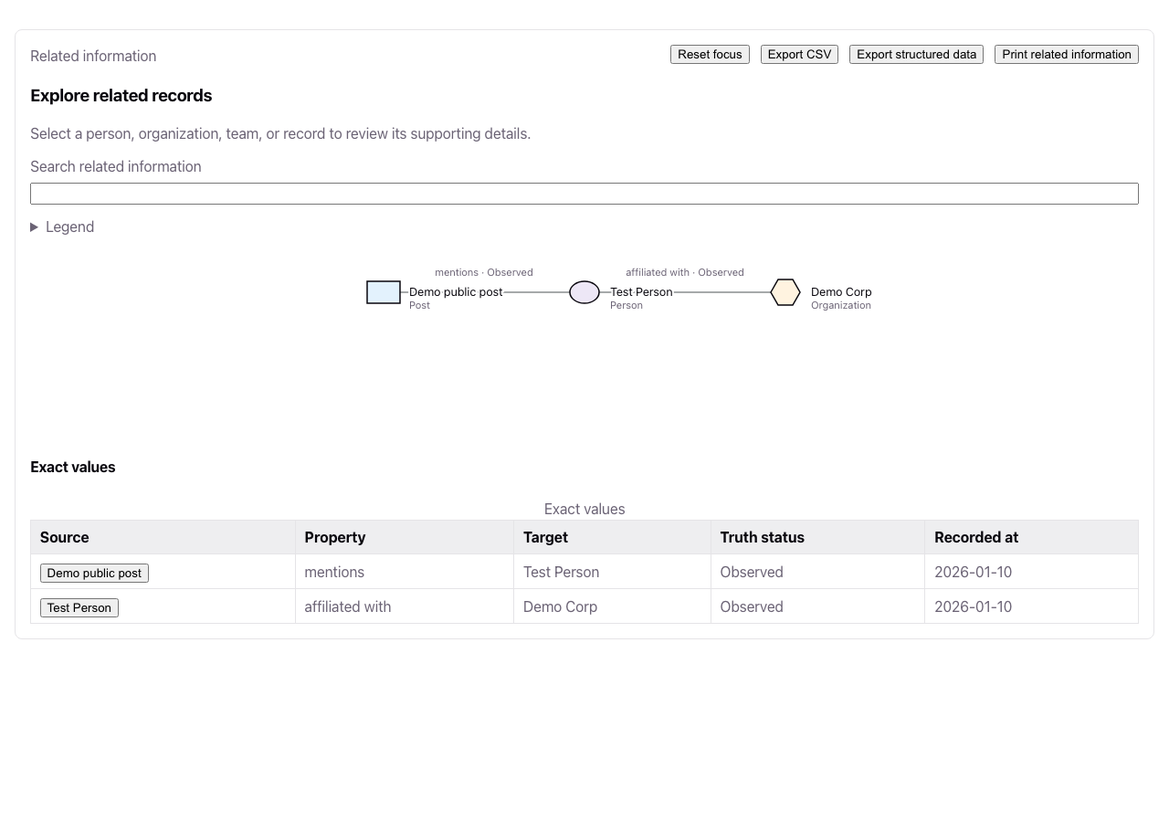
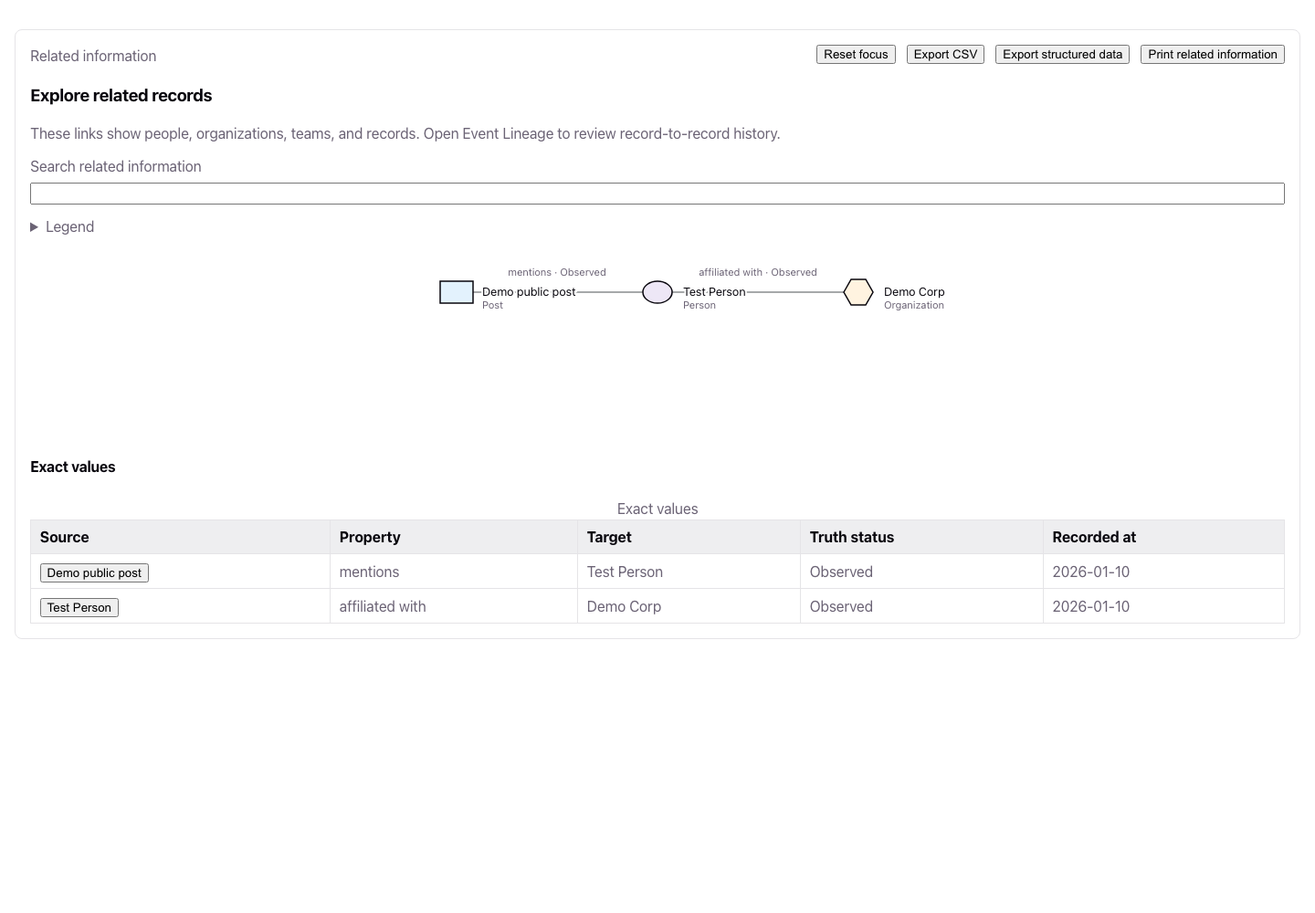
fix(ui): keep evidence boundaries out of customer copy

diff --git a/frontend/src/i18n.ts b/frontend/src/i18n.ts
@@ -51,6 +51,7 @@ const CUSTOMER_COPY: Record<Locale, Record<string, string>> = {
     "Select a person, organization, team, or record to review its supporting details.": "Select a person, organization, team, or record to review its supporting details.",
     "Supporting detail": "Supporting detail",
     "Supporting details": "Supporting details",
+    "These links show people, organizations, teams, and records. Open Event Lineage to review record-to-record history.": "These links show people, organizations, teams, and records. Open Event Lineage to review record-to-record history.",
     "Why this item is listed": "Why this item is listed",
     "This information is not available. Open a visible record next.": "This information is not available. Open a visible record next.",
     "You can subscribe to evidence-change alerts.": "You can subscribe to evidence-change alerts.",
@@ -94,19 +95,20 @@ const CUSTOMER_COPY: Record<Locale, Record<string, string>> = {
     "Select a person, organization, team, or record to review its supporting details.": "사람, 조직, 팀 또는 기록을 선택해 뒷받침 세부 정보를 검토하세요.",
     "Supporting detail": "뒷받침 세부 정보",
     "Supporting details": "뒷받침 세부 정보",
+    "These links show people, organizations, teams, and records. Open Event Lineage to review record-to-record history.": "이 연결은 사람, 조직, 팀, 기록을 보여 줍니다. 기록 간 이력을 확인하려면 이벤트 계보를 여세요.",
     "Why this item is listed": "이 항목이 표시된 이유",
     "This information is not available. Open a visible record next.": "이 정보를 사용할 수 없습니다. 다음으로 볼 수 있는 기록을 여세요.",
     "You can subscribe to evidence-change alerts.": "근거 변경 알림을 구독할 수 있습니다.",
     "{count} evidence documents are linked to this report.": "이 보고서에 근거 문서 {count}개가 연결되어 있습니다.",
   },
   zh: {
-    "Affiliates of {name}": "{name}的关联成员", "Close details": "关闭详情", "Compare this information with the latest evidence before relying on it.": "使用此信息前请与最新证据比较。", "Connect evidence to enable change-alert subscriptions.": "连接证据以启用变更提醒订阅。", "Explore related information": "探索相关信息", "Explore related records": "探索相关记录", "Export structured data": "导出结构化数据", "Follow-up actions": "后续操作", "How this was found": "发现方式", "Linked record available": "有可用的关联记录", "Load more related information": "加载更多相关信息", "Loading related information...": "正在加载相关信息…", "More related information is available. Load more or open a record.": "还有更多相关信息。请加载更多或打开记录。", "Needs attention": "需要关注", "No linked record is available. Review the details above.": "没有关联记录。请查看上方详情。", "No records are available yet. Add a source record to continue.": "暂时没有记录。请添加来源记录继续。", "No related information is available. Open a record or organization next.": "没有相关信息。请打开记录或组织继续。", "No related records are available here. Open a record or organization next.": "这里没有相关记录。请打开记录或组织继续。", "No related records are available yet.": "暂时没有相关记录。", "Open a related record to review the available information.": "打开相关记录查看可用信息。", "Open linked record": "打开关联记录", "Open related item: {label}": "打开相关项目：{label}", "Open relation: {property} from {source} to {target}": "打开关系：{source} 到 {target} 的 {property}", "Post details": "文章详情", "Public verification is unavailable right now. Review the linked evidence or try again later.": "公共验证暂不可用。请查看关联证据或稍后重试。", "Ranking is unavailable": "排名不可用", "Related detail": "相关详情", "Related information": "相关信息", "Related information for {name}": "{name}的相关信息", "Related information is unavailable. Open a visible record next.": "相关信息不可用。请打开可见记录继续。", "Related item": "相关项目", "Related-record ranking": "相关记录排名", "Review the related records and evidence before selecting a customer.": "选择客户前请查看相关记录和证据。", "Search related information": "搜索相关信息", "Select a person, organization, team, or record to review its supporting details.": "选择人员、组织、团队或记录查看支持详情。", "Supporting detail": "支持详情", "Supporting details": "支持详情", "Why this item is listed": "显示此项目的原因", "This information is not available. Open a visible record next.": "此信息不可用。请打开可见记录继续。", "You can subscribe to evidence-change alerts.": "您可以订阅证据变更提醒。", "{count} evidence documents are linked to this report.": "此报告关联了 {count} 份证据文档。",
+    "Affiliates of {name}": "{name}的关联成员", "Close details": "关闭详情", "Compare this information with the latest evidence before relying on it.": "使用此信息前请与最新证据比较。", "Connect evidence to enable change-alert subscriptions.": "连接证据以启用变更提醒订阅。", "Explore related information": "探索相关信息", "Explore related records": "探索相关记录", "Export structured data": "导出结构化数据", "Follow-up actions": "后续操作", "How this was found": "发现方式", "Linked record available": "有可用的关联记录", "Load more related information": "加载更多相关信息", "Loading related information...": "正在加载相关信息…", "More related information is available. Load more or open a record.": "还有更多相关信息。请加载更多或打开记录。", "Needs attention": "需要关注", "No linked record is available. Review the details above.": "没有关联记录。请查看上方详情。", "No records are available yet. Add a source record to continue.": "暂时没有记录。请添加来源记录继续。", "No related information is available. Open a record or organization next.": "没有相关信息。请打开记录或组织继续。", "No related records are available here. Open a record or organization next.": "这里没有相关记录。请打开记录或组织继续。", "No related records are available yet.": "暂时没有相关记录。", "Open a related record to review the available information.": "打开相关记录查看可用信息。", "Open linked record": "打开关联记录", "Open related item: {label}": "打开相关项目：{label}", "Open relation: {property} from {source} to {target}": "打开关系：{source} 到 {target} 的 {property}", "Post details": "文章详情", "Public verification is unavailable right now. Review the linked evidence or try again later.": "公共验证暂不可用。请查看关联证据或稍后重试。", "Ranking is unavailable": "排名不可用", "Related detail": "相关详情", "Related information": "相关信息", "Related information for {name}": "{name}的相关信息", "Related information is unavailable. Open a visible record next.": "相关信息不可用。请打开可见记录继续。", "Related item": "相关项目", "Related-record ranking": "相关记录排名", "Review the related records and evidence before selecting a customer.": "选择客户前请查看相关记录和证据。", "Search related information": "搜索相关信息", "Select a person, organization, team, or record to review its supporting details.": "选择人员、组织、团队或记录查看支持详情。", "Supporting detail": "支持详情", "Supporting details": "支持详情", "These links show people, organizations, teams, and records. Open Event Lineage to review record-to-record history.": "这些链接显示人员、组织、团队和记录。打开事件谱系以查看记录之间的历史。", "Why this item is listed": "显示此项目的原因", "This information is not available. Open a visible record next.": "此信息不可用。请打开可见记录继续。", "You can subscribe to evidence-change alerts.": "您可以订阅证据变更提醒。", "{count} evidence documents are linked to this report.": "此报告关联了 {count} 份证据文档。",
   },
   ja: {
-    "Affiliates of {name}": "{name}の関係者", "Close details": "詳細を閉じる", "Compare this information with the latest evidence before relying on it.": "この情報を使う前に最新の証拠と比較してください。", "Connect evidence to enable change-alert subscriptions.": "証拠を接続すると変更通知を購読できます。", "Explore related information": "関連情報を探す", "Explore related records": "関連記録を探す", "Export structured data": "構造化データをエクスポート", "Follow-up actions": "次の対応", "How this was found": "見つかった方法", "Linked record available": "関連記録あり", "Load more related information": "関連情報をさらに読み込む", "Loading related information...": "関連情報を読み込んでいます…", "More related information is available. Load more or open a record.": "さらに関連情報があります。追加読み込みまたは記録を開いてください。", "Needs attention": "確認が必要です", "No linked record is available. Review the details above.": "関連記録がありません。上の詳細を確認してください。", "No records are available yet. Add a source record to continue.": "まだ記録がありません。続けるには元の記録を追加してください。", "No related information is available. Open a record or organization next.": "関連情報がありません。記録または組織を開いてください。", "No related records are available here. Open a record or organization next.": "ここには関連記録がありません。記録または組織を開いてください。", "No related records are available yet.": "まだ関連記録がありません。", "Open a related record to review the available information.": "関連記録を開いて情報を確認してください。", "Open linked record": "関連記録を開く", "Open related item: {label}": "関連項目を開く：{label}", "Open relation: {property} from {source} to {target}": "関係を開く：{source}から{target}への{property}", "Post details": "投稿の詳細", "Public verification is unavailable right now. Review the linked evidence or try again later.": "公開検証は現在利用できません。関連証拠を確認するか、後でもう一度お試しください。", "Ranking is unavailable": "ランキングを利用できません", "Related detail": "関連詳細", "Related information": "関連情報", "Related information for {name}": "{name}の関連情報", "Related information is unavailable. Open a visible record next.": "関連情報を利用できません。表示できる記録を開いてください。", "Related item": "関連項目", "Related-record ranking": "関連記録のランキング", "Review the related records and evidence before selecting a customer.": "顧客を選択する前に関連記録と証拠を確認してください。", "Search related information": "関連情報を検索", "Select a person, organization, team, or record to review its supporting details.": "人物、組織、チーム、記録を選択して裏付け詳細を確認してください。", "Supporting detail": "裏付け詳細", "Supporting details": "裏付け詳細", "Why this item is listed": "この項目が表示される理由", "This information is not available. Open a visible record next.": "この情報を利用できません。表示できる記録を開いてください。", "You can subscribe to evidence-change alerts.": "証拠の変更通知を購読できます。", "{count} evidence documents are linked to this report.": "このレポートには証拠文書が{count}件リンクされています。",
+    "Affiliates of {name}": "{name}の関係者", "Close details": "詳細を閉じる", "Compare this information with the latest evidence before relying on it.": "この情報を使う前に最新の証拠と比較してください。", "Connect evidence to enable change-alert subscriptions.": "証拠を接続すると変更通知を購読できます。", "Explore related information": "関連情報を探す", "Explore related records": "関連記録を探す", "Export structured data": "構造化データをエクスポート", "Follow-up actions": "次の対応", "How this was found": "見つかった方法", "Linked record available": "関連記録あり", "Load more related information": "関連情報をさらに読み込む", "Loading related information...": "関連情報を読み込んでいます…", "More related information is available. Load more or open a record.": "さらに関連情報があります。追加読み込みまたは記録を開いてください。", "Needs attention": "確認が必要です", "No linked record is available. Review the details above.": "関連記録がありません。上の詳細を確認してください。", "No records are available yet. Add a source record to continue.": "まだ記録がありません。続けるには元の記録を追加してください。", "No related information is available. Open a record or organization next.": "関連情報がありません。記録または組織を開いてください。", "No related records are available here. Open a record or organization next.": "ここには関連記録がありません。記録または組織を開いてください。", "No related records are available yet.": "まだ関連記録がありません。", "Open a related record to review the available information.": "関連記録を開いて情報を確認してください。", "Open linked record": "関連記録を開く", "Open related item: {label}": "関連項目を開く：{label}", "Open relation: {property} from {source} to {target}": "関係を開く：{source}から{target}への{property}", "Post details": "投稿の詳細", "Public verification is unavailable right now. Review the linked evidence or try again later.": "公開検証は現在利用できません。関連証拠を確認するか、後でもう一度お試しください。", "Ranking is unavailable": "ランキングを利用できません", "Related detail": "関連詳細", "Related information": "関連情報", "Related information for {name}": "{name}の関連情報", "Related information is unavailable. Open a visible record next.": "関連情報を利用できません。表示できる記録を開いてください。", "Related item": "関連項目", "Related-record ranking": "関連記録のランキング", "Review the related records and evidence before selecting a customer.": "顧客を選択する前に関連記録と証拠を確認してください。", "Search related information": "関連情報を検索", "Select a person, organization, team, or record to review its supporting details.": "人物、組織、チーム、記録を選択して裏付け詳細を確認してください。", "Supporting detail": "裏付け詳細", "Supporting details": "裏付け詳細", "These links show people, organizations, teams, and records. Open Event Lineage to review record-to-record history.": "これらのリンクは人、組織、チーム、記録を示します。記録間の履歴を確認するにはイベント系譜を開いてください。", "Why this item is listed": "この項目が表示される理由", "This information is not available. Open a visible record next.": "この情報を利用できません。表示できる記録を開いてください。", "You can subscribe to evidence-change alerts.": "証拠の変更通知を購読できます。", "{count} evidence documents are linked to this report.": "このレポートには証拠文書が{count}件リンクされています。",
   },
   vi: {
-    "Affiliates of {name}": "Đơn vị liên kết của {name}", "Close details": "Đóng chi tiết", "Compare this information with the latest evidence before relying on it.": "Hãy so sánh thông tin này với bằng chứng mới nhất trước khi sử dụng.", "Connect evidence to enable change-alert subscriptions.": "Kết nối bằng chứng để bật đăng ký thông báo thay đổi.", "Explore related information": "Khám phá thông tin liên quan", "Explore related records": "Khám phá bản ghi liên quan", "Export structured data": "Xuất dữ liệu có cấu trúc", "Follow-up actions": "Hành động tiếp theo", "How this was found": "Cách tìm thấy", "Linked record available": "Có bản ghi liên kết", "Load more related information": "Tải thêm thông tin liên quan", "Loading related information...": "Đang tải thông tin liên quan…", "More related information is available. Load more or open a record.": "Còn thông tin liên quan. Hãy tải thêm hoặc mở một bản ghi.", "Needs attention": "Cần chú ý", "No linked record is available. Review the details above.": "Không có bản ghi liên kết. Hãy xem chi tiết ở trên.", "No records are available yet. Add a source record to continue.": "Chưa có bản ghi. Hãy thêm bản ghi nguồn để tiếp tục.", "No related information is available. Open a record or organization next.": "Không có thông tin liên quan. Hãy mở bản ghi hoặc tổ chức tiếp theo.", "No related records are available here. Open a record or organization next.": "Không có bản ghi liên quan ở đây. Hãy mở bản ghi hoặc tổ chức tiếp theo.", "No related records are available yet.": "Chưa có bản ghi liên quan.", "Open a related record to review the available information.": "Mở bản ghi liên quan để xem thông tin hiện có.", "Open linked record": "Mở bản ghi liên kết", "Open related item: {label}": "Mở mục liên quan: {label}", "Open relation: {property} from {source} to {target}": "Mở quan hệ {property} từ {source} đến {target}", "Post details": "Chi tiết bài viết", "Public verification is unavailable right now. Review the linked evidence or try again later.": "Xác minh công khai hiện không khả dụng. Hãy xem bằng chứng liên kết hoặc thử lại sau.", "Ranking is unavailable": "Không thể dùng xếp hạng", "Related detail": "Chi tiết liên quan", "Related information": "Thông tin liên quan", "Related information for {name}": "Thông tin liên quan đến {name}", "Related information is unavailable. Open a visible record next.": "Thông tin liên quan không khả dụng. Hãy mở bản ghi hiển thị tiếp theo.", "Related item": "Mục liên quan", "Related-record ranking": "Xếp hạng bản ghi liên quan", "Review the related records and evidence before selecting a customer.": "Hãy xem bản ghi và bằng chứng liên quan trước khi chọn khách hàng.", "Search related information": "Tìm thông tin liên quan", "Select a person, organization, team, or record to review its supporting details.": "Chọn người, tổ chức, nhóm hoặc bản ghi để xem chi tiết hỗ trợ.", "Supporting detail": "Chi tiết hỗ trợ", "Supporting details": "Các chi tiết hỗ trợ", "Why this item is listed": "Lý do mục này được hiển thị", "This information is not available. Open a visible record next.": "Thông tin này không khả dụng. Hãy mở bản ghi hiển thị tiếp theo.", "You can subscribe to evidence-change alerts.": "Bạn có thể đăng ký thông báo thay đổi bằng chứng.", "{count} evidence documents are linked to this report.": "Có {count} tài liệu bằng chứng liên kết với báo cáo này.",
+    "Affiliates of {name}": "Đơn vị liên kết của {name}", "Close details": "Đóng chi tiết", "Compare this information with the latest evidence before relying on it.": "Hãy so sánh thông tin này với bằng chứng mới nhất trước khi sử dụng.", "Connect evidence to enable change-alert subscriptions.": "Kết nối bằng chứng để bật đăng ký thông báo thay đổi.", "Explore related information": "Khám phá thông tin liên quan", "Explore related records": "Khám phá bản ghi liên quan", "Export structured data": "Xuất dữ liệu có cấu trúc", "Follow-up actions": "Hành động tiếp theo", "How this was found": "Cách tìm thấy", "Linked record available": "Có bản ghi liên kết", "Load more related information": "Tải thêm thông tin liên quan", "Loading related information...": "Đang tải thông tin liên quan…", "More related information is available. Load more or open a record.": "Còn thông tin liên quan. Hãy tải thêm hoặc mở một bản ghi.", "Needs attention": "Cần chú ý", "No linked record is available. Review the details above.": "Không có bản ghi liên kết. Hãy xem chi tiết ở trên.", "No records are available yet. Add a source record to continue.": "Chưa có bản ghi. Hãy thêm bản ghi nguồn để tiếp tục.", "No related information is available. Open a record or organization next.": "Không có thông tin liên quan. Hãy mở bản ghi hoặc tổ chức tiếp theo.", "No related records are available here. Open a record or organization next.": "Không có bản ghi liên quan ở đây. Hãy mở bản ghi hoặc tổ chức tiếp theo.", "No related records are available yet.": "Chưa có bản ghi liên quan.", "Open a related record to review the available information.": "Mở bản ghi liên quan để xem thông tin hiện có.", "Open linked record": "Mở bản ghi liên kết", "Open related item: {label}": "Mở mục liên quan: {label}", "Open relation: {property} from {source} to {target}": "Mở quan hệ {property} từ {source} đến {target}", "Post details": "Chi tiết bài viết", "Public verification is unavailable right now. Review the linked evidence or try again later.": "Xác minh công khai hiện không khả dụng. Hãy xem bằng chứng liên kết hoặc thử lại sau.", "Ranking is unavailable": "Không thể dùng xếp hạng", "Related detail": "Chi tiết liên quan", "Related information": "Thông tin liên quan", "Related information for {name}": "Thông tin liên quan đến {name}", "Related information is unavailable. Open a visible record next.": "Thông tin liên quan không khả dụng. Hãy mở bản ghi hiển thị tiếp theo.", "Related item": "Mục liên quan", "Related-record ranking": "Xếp hạng bản ghi liên quan", "Review the related records and evidence before selecting a customer.": "Hãy xem bản ghi và bằng chứng liên quan trước khi chọn khách hàng.", "Search related information": "Tìm thông tin liên quan", "Select a person, organization, team, or record to review its supporting details.": "Chọn người, tổ chức, nhóm hoặc bản ghi để xem chi tiết hỗ trợ.", "Supporting detail": "Chi tiết hỗ trợ", "Supporting details": "Các chi tiết hỗ trợ", "These links show people, organizations, teams, and records. Open Event Lineage to review record-to-record history.": "Các liên kết này hiển thị người, tổ chức, nhóm và bản ghi. Mở Dòng sự kiện để xem lịch sử giữa các bản ghi.", "Why this item is listed": "Lý do mục này được hiển thị", "This information is not available. Open a visible record next.": "Thông tin này không khả dụng. Hãy mở bản ghi hiển thị tiếp theo.", "You can subscribe to evidence-change alerts.": "Bạn có thể đăng ký thông báo thay đổi bằng chứng.", "{count} evidence documents are linked to this report.": "Có {count} tài liệu bằng chứng liên kết với báo cáo này.",
   },
 };
 

diff --git a/frontend/src/App.test.tsx b/frontend/src/App.test.tsx
@@ -3271,14 +3271,9 @@ describe("App, authenticated", () => {
     expect(await screen.findByRole("heading", { name: "Lineage reconstruction · Succeeded · Demo Corp" })).toBeInTheDocument();
     expect(screen.getByText(/Cutoff 2026-01-12/)).toBeInTheDocument();
     expect(screen.getByText(/Requested 2026-01-12/)).toBeInTheDocument();
-    const digests = screen.getByLabelText("Run audit details");
-    expect(digests).toHaveTextContent("This update includes audit details for administrators.");
-    expect(digests).toHaveTextContent("Code");
-    expect(digests).toHaveTextContent("Config");
-    expect(digests).not.toHaveTextContent("abcdef0123456789deadbeefcafebabe");
-    expect(digests).not.toHaveTextContent(
[1 lines of base64/hex data omitted]
-    );
+    expect(screen.queryByLabelText("Run audit details")).not.toBeInTheDocument();
+    expect(screen.queryByText("Code")).not.toBeInTheDocument();
+    expect(screen.queryByText("Config")).not.toBeInTheDocument();
     expect(screen.queryByTitle("abcdef0123456789deadbeefcafebabe")).not.toBeInTheDocument();
[1 lines of base64/hex data omitted]
     const history = screen.getByRole("list", { name: "Analysis run status history" });
@@ -3913,8 +3908,8 @@ describe("App, authenticated", () => {
     expect(fork).toHaveTextContent(
       "Delivery schedule question raised follows Pricing renegotiation follow-up",
     );
-    const digests = screen.getByLabelText("Run audit details");
-    expect(digests).toHaveTextContent("Result");
+    expect(screen.queryByLabelText("Run audit details")).not.toBeInTheDocument();
+    expect(screen.queryByText("Result")).not.toBeInTheDocument();
     expect(screen.queryByTitle("aa".repeat(32))).not.toBeInTheDocument();
     const startCall = fetchMock.mock.calls.find((call) =>
       String(call[0]).endsWith("/api/analysis-runs/run-demo-lineage-pending/start"),

diff --git a/frontend/src/App.tsx b/frontend/src/App.tsx
@@ -2825,45 +2825,6 @@ function analysisRunLivePostButtonLabel(post: {
   return `Open live post: ${post.post_title}`;
 }
 
-function AnalysisRunReproducibilityDigests({
-  codeRevisionSha,
-  configurationSha256,
-  reconstructionResultSha256,
-}: {
-  codeRevisionSha?: string;
-  configurationSha256?: string;
-  reconstructionResultSha256?: string;
-}) {
-  const parts: { label: string; digest: string }[] = [];
-  if (codeRevisionSha) {
-    parts.push({ label: "Code", digest: codeRevisionSha });
-  }
-  if (configurationSha256) {
-    parts.push({ label: "Config", digest: configurationSha256 });
-  }
-  if (reconstructionResultSha256) {
-    parts.push({ label: "Result", digest: reconstructionResultSha256 });
-  }
-  if (parts.length === 0) {
-    return null;
-  }
-  return (
-    <div role="group" aria-label="Run audit details">
-      <p className="post-meta">
-        <span className="visually-hidden">
-          This update includes audit details for administrators.{" "}
-        </span>
-        {parts.map((part, index) => (
-          <span key={part.label}>
-            {index > 0 ? " · " : null}
-            <span>{part.label}</span>
-          </span>
-        ))}
-      </p>
-    </div>
-  );
-}
-
 /**
  * Start is for a Pending lineage or TEPP row after Request.
  *
@@ -3159,11 +3120,6 @@ function AnalysisRunsPanel({
             {" · "}
             Requested {selected.requested_at.slice(0, 10)}
           </p>
-          <AnalysisRunReproducibilityDigests
-            codeRevisionSha={selected.code_revision_sha}
-            configurationSha256={selected.configuration_sha256}
-            reconstructionResultSha256={selected.reconstruction_result_sha256}
-          />
           {analysisRunCanStart(selected) && (
             <button
               className="keyman-select"

diff --git a/frontend/src/components/OntologyExplorer.tsx b/frontend/src/components/OntologyExplorer.tsx
@@ -197,7 +197,11 @@ export function OntologyExplorer({
         <div>
           <p className="section-eyebrow">{t("Related information")}</p>
           <h3>{t("Explore related records")}</h3>
-          <p>{t("Select a person, organization, team, or record to review its supporting details.")}</p>
+          <p>
+            {t(
+              "These links show people, organizations, teams, and records. Open Event Lineage to review record-to-record history.",
+            )}
+          </p>
         </div>
         <div className="ontology-explorer-actions">
           <button type="button" onClick={resetFocus}>

diff --git a/frontend/src/components/OntologyExplorer.test.tsx b/frontend/src/components/OntologyExplorer.test.tsx
@@ -236,7 +236,7 @@ describe("OntologyExplorer", () => {
       />,
     );
     expect(
-      screen.getByText(/Select a person, organization, team, or record/),
+      screen.getByText(/Open Event Lineage to review record-to-record history/),
     ).toBeInTheDocument();
     expect(screen.getByRole("region", { name: "Exact values" })).toHaveAttribute("tabindex", "0");
     await userEvent.click(screen.getByRole("button", { name: "Open related item: Post Demo public post" }));

diff --git a/frontend/src/i18n.test.ts b/frontend/src/i18n.test.ts
@@ -100,6 +100,7 @@ describe("i18n", () => {
     "Why this item is listed",
     "No records are available yet. Add a source record to continue.",
     "Public verification is unavailable right now. Review the linked evidence or try again later.",
+    "These links show people, organizations, teams, and records. Open Event Lineage to review record-to-record history.",
   ] as const;
 
   it("supports the five product locales", () => {
